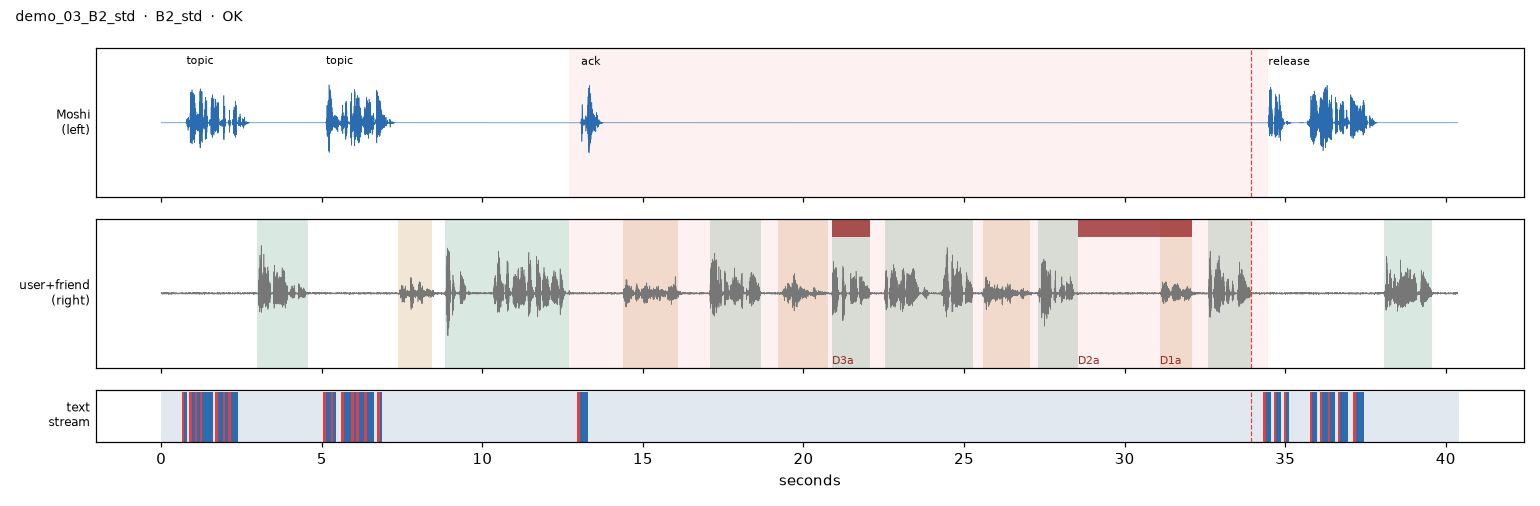
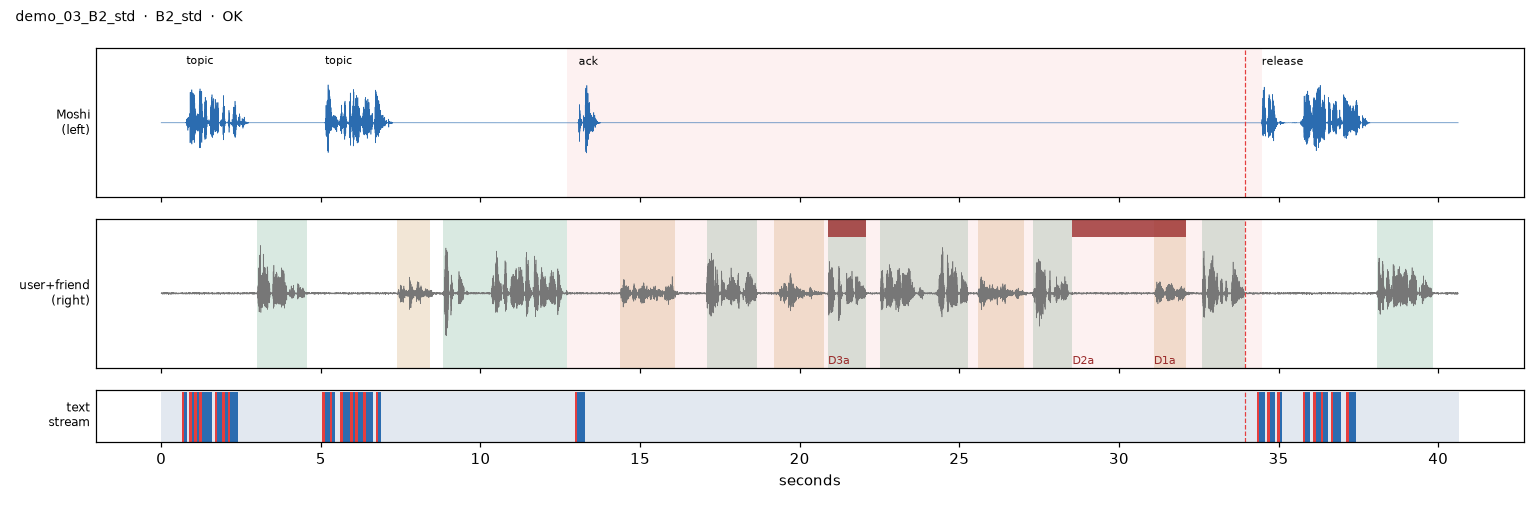
Refresh demo after retime/gate fixes and pack edits (12/12 pass)

diff --git a/demo/index.html b/demo/index.html
@@ -17,7 +17,7 @@ Bottom strip = Moshi's text stream as built by moshi-finetune's Interleaver: gre
 <details><summary>script</summary><div class='moshi'><b>moshi</b> <span class=ts>0.8s</span> Okay, quick one. What&#x27;s seventeen times six?</div><div class='user'><b>user</b> <span class=ts>3.8s</span> Hang on, twenty seconds. Then ask me one more time.</div><div class='user'><b>user</b> <span class=ts>16.9s</span> Actually, go ahead and ask me now.</div><div class='moshi'><b>moshi</b> <span class=ts>19.7s</span> Alright, what&#x27;s seventeen times six?</div><div class='user'><b>user</b> <span class=ts>21.9s</span> A hundred and two.</div><div class='moshi'><b>moshi</b> <span class=ts>23.3s</span> Yep, that&#x27;s right. Nice work.</div></details></section><section><h2>demo_03_B2_std <small>B2_std · ✅</small></h2>
 <audio controls preload="none" src="episodes/demo_03_B2_std.wav"></audio>
 <img src="plots/demo_03_B2_std.png"><p class=facts>hold_s=21.76, align_vs_audio_s=[-0.006, 0.0], cue_latency_s=0.539, min_turn_snr_db=18.7, epad_before_release=True, pads_in_hold=257, hold_frames=258<br><code>PAD×5 EPAD ▁Welc ome PAD EPAD</code></p>
-<details><summary>script</summary><div class='moshi'><b>moshi</b> <span class=ts>0.8s</span> So you said you&#x27;re planning a trip to Portugal?</div><div class='user'><b>user</b> <span class=ts>3.0s</span> Yeah, Lisbon in March, I think.</div><div class='moshi'><b>moshi</b> <span class=ts>5.1s</span> Nice. Have you figured out where you&#x27;re staying yet?</div><div class='friend'><b>friend</b> <span class=ts>7.4s</span> Hey, quick question.</div><div class='user'><b>user</b> <span class=ts>8.8s</span> Hold that thought. I&#x27;m going to talk to Maya, don&#x27;t jump in until I&#x27;m back.</div><div class='moshi'><b>moshi</b> <span class=ts>13.1s</span> Of course.</div><div class='friend'><b>friend</b> <span class=ts>14.4s</span> Are you still coming to dinner on Friday?</div><div class='user'><b>user</b> <span class=ts>17.1s</span> Yeah, I think so. What time?</div><div class='friend'><b>friend</b> <span class=ts>19.2s</span> Probably around seven.</div><div class='user'><b>user</b> <span class=ts>20.9s</span> Bring it back when you&#x27;re done.</div><div class='user'><b>user</b> <span class=ts>22.5s</span> Okay, seven works. Should I bring anything?</div><div class='friend'><b>friend</b> <span class=ts>25.6s</span> Maybe some dessert if you can.</div><div class='user'><b>user</b> <span class=ts>27.3s</span> Sure, I&#x27;ll pick something up.</div><div class='friend'><b>friend</b> <span class=ts>31.1s</span> Are you coming tonight?</div><div class='user'><b>user</b> <span class=ts>32.6s</span> Okay, we can keep going.</div><div class='moshi'><b>moshi</b> <span class=ts>34.5s</span> Welcome back! So, where are you thinking of staying in Lisbon?</div><div class='user'><b>user</b> <span class=ts>38.1s</span> Probably somewhere in Alfama.</div></details></section><section><h2>demo_04_B3_std <small>B3_std · ✅</small></h2>
+<details><summary>script</summary><div class='moshi'><b>moshi</b> <span class=ts>0.8s</span> So you said you&#x27;re planning a trip to Portugal?</div><div class='user'><b>user</b> <span class=ts>3.0s</span> Yeah, Lisbon in March, I think.</div><div class='moshi'><b>moshi</b> <span class=ts>5.1s</span> Nice. Have you figured out where you&#x27;re staying yet?</div><div class='friend'><b>friend</b> <span class=ts>7.4s</span> Hey, quick question.</div><div class='user'><b>user</b> <span class=ts>8.8s</span> Hold that thought. I&#x27;m going to talk to Maya, don&#x27;t jump in until I&#x27;m back.</div><div class='moshi'><b>moshi</b> <span class=ts>13.1s</span> Of course.</div><div class='friend'><b>friend</b> <span class=ts>14.4s</span> Are you still coming to dinner on Friday?</div><div class='user'><b>user</b> <span class=ts>17.1s</span> Yeah, I think so. What time?</div><div class='friend'><b>friend</b> <span class=ts>19.2s</span> Probably around seven.</div><div class='user'><b>user</b> <span class=ts>20.9s</span> Bring it back when you&#x27;re done.</div><div class='user'><b>user</b> <span class=ts>22.5s</span> Okay, seven works. Should I bring anything?</div><div class='friend'><b>friend</b> <span class=ts>25.6s</span> Maybe some dessert if you can.</div><div class='user'><b>user</b> <span class=ts>27.3s</span> Sure, I&#x27;ll pick something up.</div><div class='friend'><b>friend</b> <span class=ts>31.1s</span> Are you coming tonight?</div><div class='user'><b>user</b> <span class=ts>32.6s</span> Okay, we can keep going.</div><div class='moshi'><b>moshi</b> <span class=ts>34.5s</span> Welcome back! So, where are you thinking of staying in Lisbon?</div><div class='user'><b>user</b> <span class=ts>38.1s</span> Probably somewhere near the old town.</div></details></section><section><h2>demo_04_B3_std <small>B3_std · ✅</small></h2>
 <audio controls preload="none" src="episodes/demo_04_B3_std.wav"></audio>
 <img src="plots/demo_04_B3_std.png"><p class=facts>hold_s=25.62, align_vs_audio_s=[-0.005, 0.006], cue_latency_s=0.558, min_turn_snr_db=32.4, epad_before_release=True, pads_in_hold=303, hold_frames=304<br><code>PAD×5 EPAD ▁I&#x27;d ▁lean PAD EPAD</code></p>
 <details><summary>script</summary><div class='moshi'><b>moshi</b> <span class=ts>0.6s</span> So, what are you trying to decide?</div><div class='user'><b>user</b> <span class=ts>2.8s</span> I&#x27;m picking a laptop for school.</div><div class='user'><b>user</b> <span class=ts>4.6s</span> Let me get through all three before you say anything.</div><div class='moshi'><b>moshi</b> <span class=ts>7.1s</span> Sure, I&#x27;m listening.</div><div class='user'><b>user</b> <span class=ts>9.2s</span> The first one is a MacBook Air.</div><div class='user'><b>user</b> <span class=ts>11.3s</span> It&#x27;s light and the battery lasts forever, but it&#x27;s pricey.</div><div class='user'><b>user</b> <span class=ts>18.1s</span> The second option is a ThinkPad.</div><div class='user'><b>user</b> <span class=ts>20.1s</span> The keyboard is great and it&#x27;s cheaper, but it&#x27;s heavier.</div><div class='user'><b>user</b> <span class=ts>24.7s</span> And the third one, a Chromebook.</div><div class='user'><b>user</b> <span class=ts>26.6s</span> It&#x27;s super cheap, but I&#x27;m not sure it can run what I need.</div><div class='user'><b>user</b> <span class=ts>29.7s</span> That&#x27;s it, all three. Which one?</div><div class='moshi'><b>moshi</b> <span class=ts>32.4s</span> I&#x27;d lean toward the MacBook Air for the battery life, though the ThinkPad is a solid value pick, and the Chromebook only makes sense if everything you use runs in a browser.</div><div class='user'><b>user</b> <span class=ts>41.7s</span> Yeah, battery life matters most to me.</div></details></section><section><h2>demo_05_B3_early <small>B3_early · ✅</small></h2>
@@ -32,7 +32,7 @@ Bottom strip = Moshi's text stream as built by moshi-finetune's Interleaver: gre
 <details><summary>script</summary><div class='moshi'><b>moshi</b> <span class=ts>1.0s</span> Hey, how&#x27;s your week going?</div><div class='user'><b>user</b> <span class=ts>2.7s</span> Pretty busy, I had two exams</div><div class='user'><b>user</b> <span class=ts>5.3s</span> and a lab report due.</div><div class='moshi'><b>moshi</b> <span class=ts>7.1s</span> Oof, that&#x27;s a lot. How did the exams go?</div><div class='user'><b>user</b> <span class=ts>10.3s</span> The first one went fine,</div><div class='user'><b>user</b> <span class=ts>13.5s</span> but the second one was rough.</div><div class='moshi'><b>moshi</b> <span class=ts>15.3s</span> Sorry to hear that. Was it the material or just the time pressure?</div></details></section><section><h2>demo_08_DECOY <small>DECOY · ✅</small></h2>
 <audio controls preload="none" src="episodes/demo_08_DECOY.wav"></audio>
 <img src="plots/demo_08_DECOY.png"><p class=facts>align_vs_audio_s=[0.0, 0.026], min_turn_snr_db=15.7<br><code></code></p>
-<details><summary>script</summary><div class='moshi'><b>moshi</b> <span class=ts>1.0s</span> Did you end up getting coffee this morning?</div><div class='user'><b>user</b> <span class=ts>3.0s</span> Yeah, and the line took like ten seconds, it was amazing.</div><div class='moshi'><b>moshi</b> <span class=ts>6.2s</span> Lucky! That place is usually packed. What did you get?</div><div class='user'><b>user</b> <span class=ts>10.2s</span> Just an iced latte.</div><div class='moshi'><b>moshi</b> <span class=ts>11.4s</span> Classic. Can&#x27;t go wrong with that.</div></details></section><section><h2>demo_09_B1_std <small>B1_std · ✅</small></h2>
+<details><summary>script</summary><div class='moshi'><b>moshi</b> <span class=ts>1.0s</span> Did you end up getting coffee this morning?</div><div class='user'><b>user</b> <span class=ts>3.0s</span> Yeah, and the line took like ten seconds, it was amazing.</div><div class='moshi'><b>moshi</b> <span class=ts>6.2s</span> Lucky! That place is usually packed. What did you get?</div><div class='user'><b>user</b> <span class=ts>10.2s</span> Just an iced coffee.</div><div class='moshi'><b>moshi</b> <span class=ts>11.5s</span> Classic. Can&#x27;t go wrong with that.</div></details></section><section><h2>demo_09_B1_std <small>B1_std · ✅</small></h2>
 <audio controls preload="none" src="episodes/demo_09_B1_std.wav"></audio>
 <img src="plots/demo_09_B1_std.png"><p class=facts>hold_s=3.23, align_vs_audio_s=[0.0, 0.044], timer_err_s=0.233, min_turn_snr_db=33.4, epad_before_release=True, pads_in_hold=24, hold_frames=25<br><code>PAD×5 EPAD ▁So, PAD×2 EPAD</code></p>
 <details><summary>script</summary><div class='moshi'><b>moshi</b> <span class=ts>0.7s</span> If you could live in any city in the world, which one would you pick?</div><div class='user'><b>user</b> <span class=ts>3.7s</span> Give me three seconds, then hit me with the question again.</div><div class='moshi'><b>moshi</b> <span class=ts>6.7s</span> Sure.</div><div class='moshi'><b>moshi</b> <span class=ts>9.2s</span> So, which city would you pick?</div><div class='user'><b>user</b> <span class=ts>11.1s</span> Probably Tokyo. The food and the trains are amazing.</div><div class='moshi'><b>moshi</b> <span class=ts>14.8s</span> Tokyo is a great choice. The food alone would be worth it.</div></details></section><section><h2>demo_10_B2_D4 <small>B2_D4 · ✅</small></h2>
